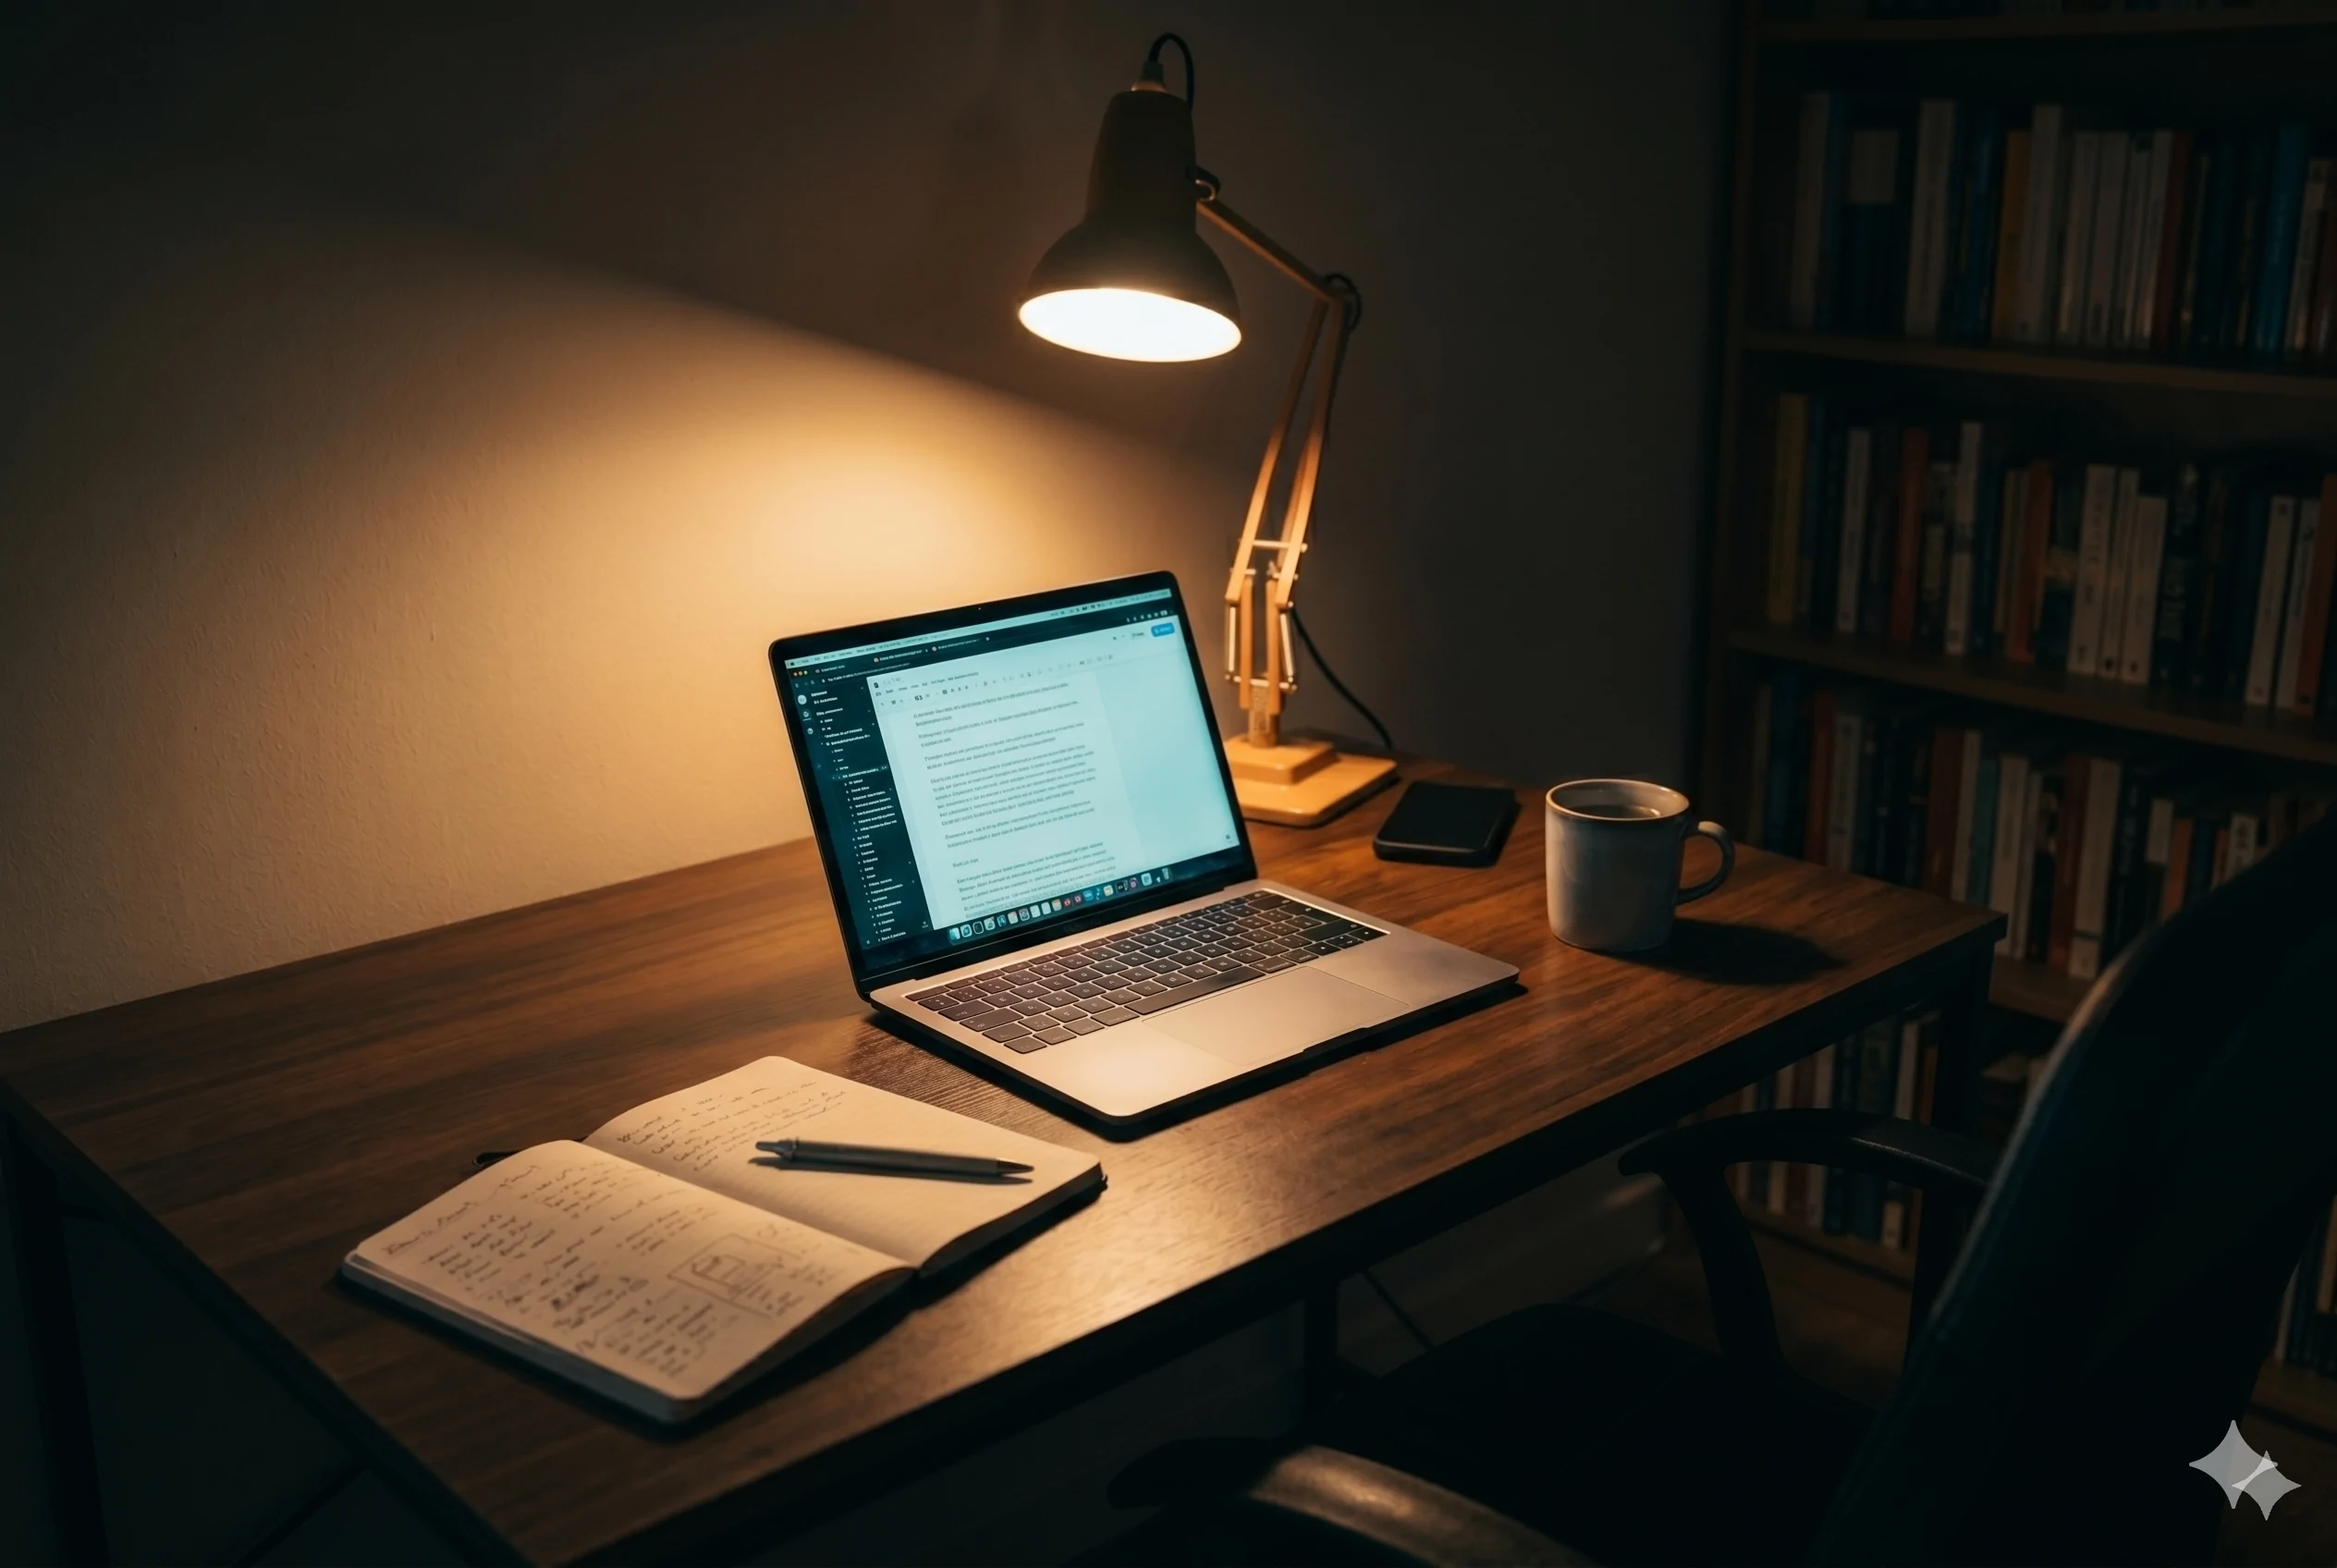
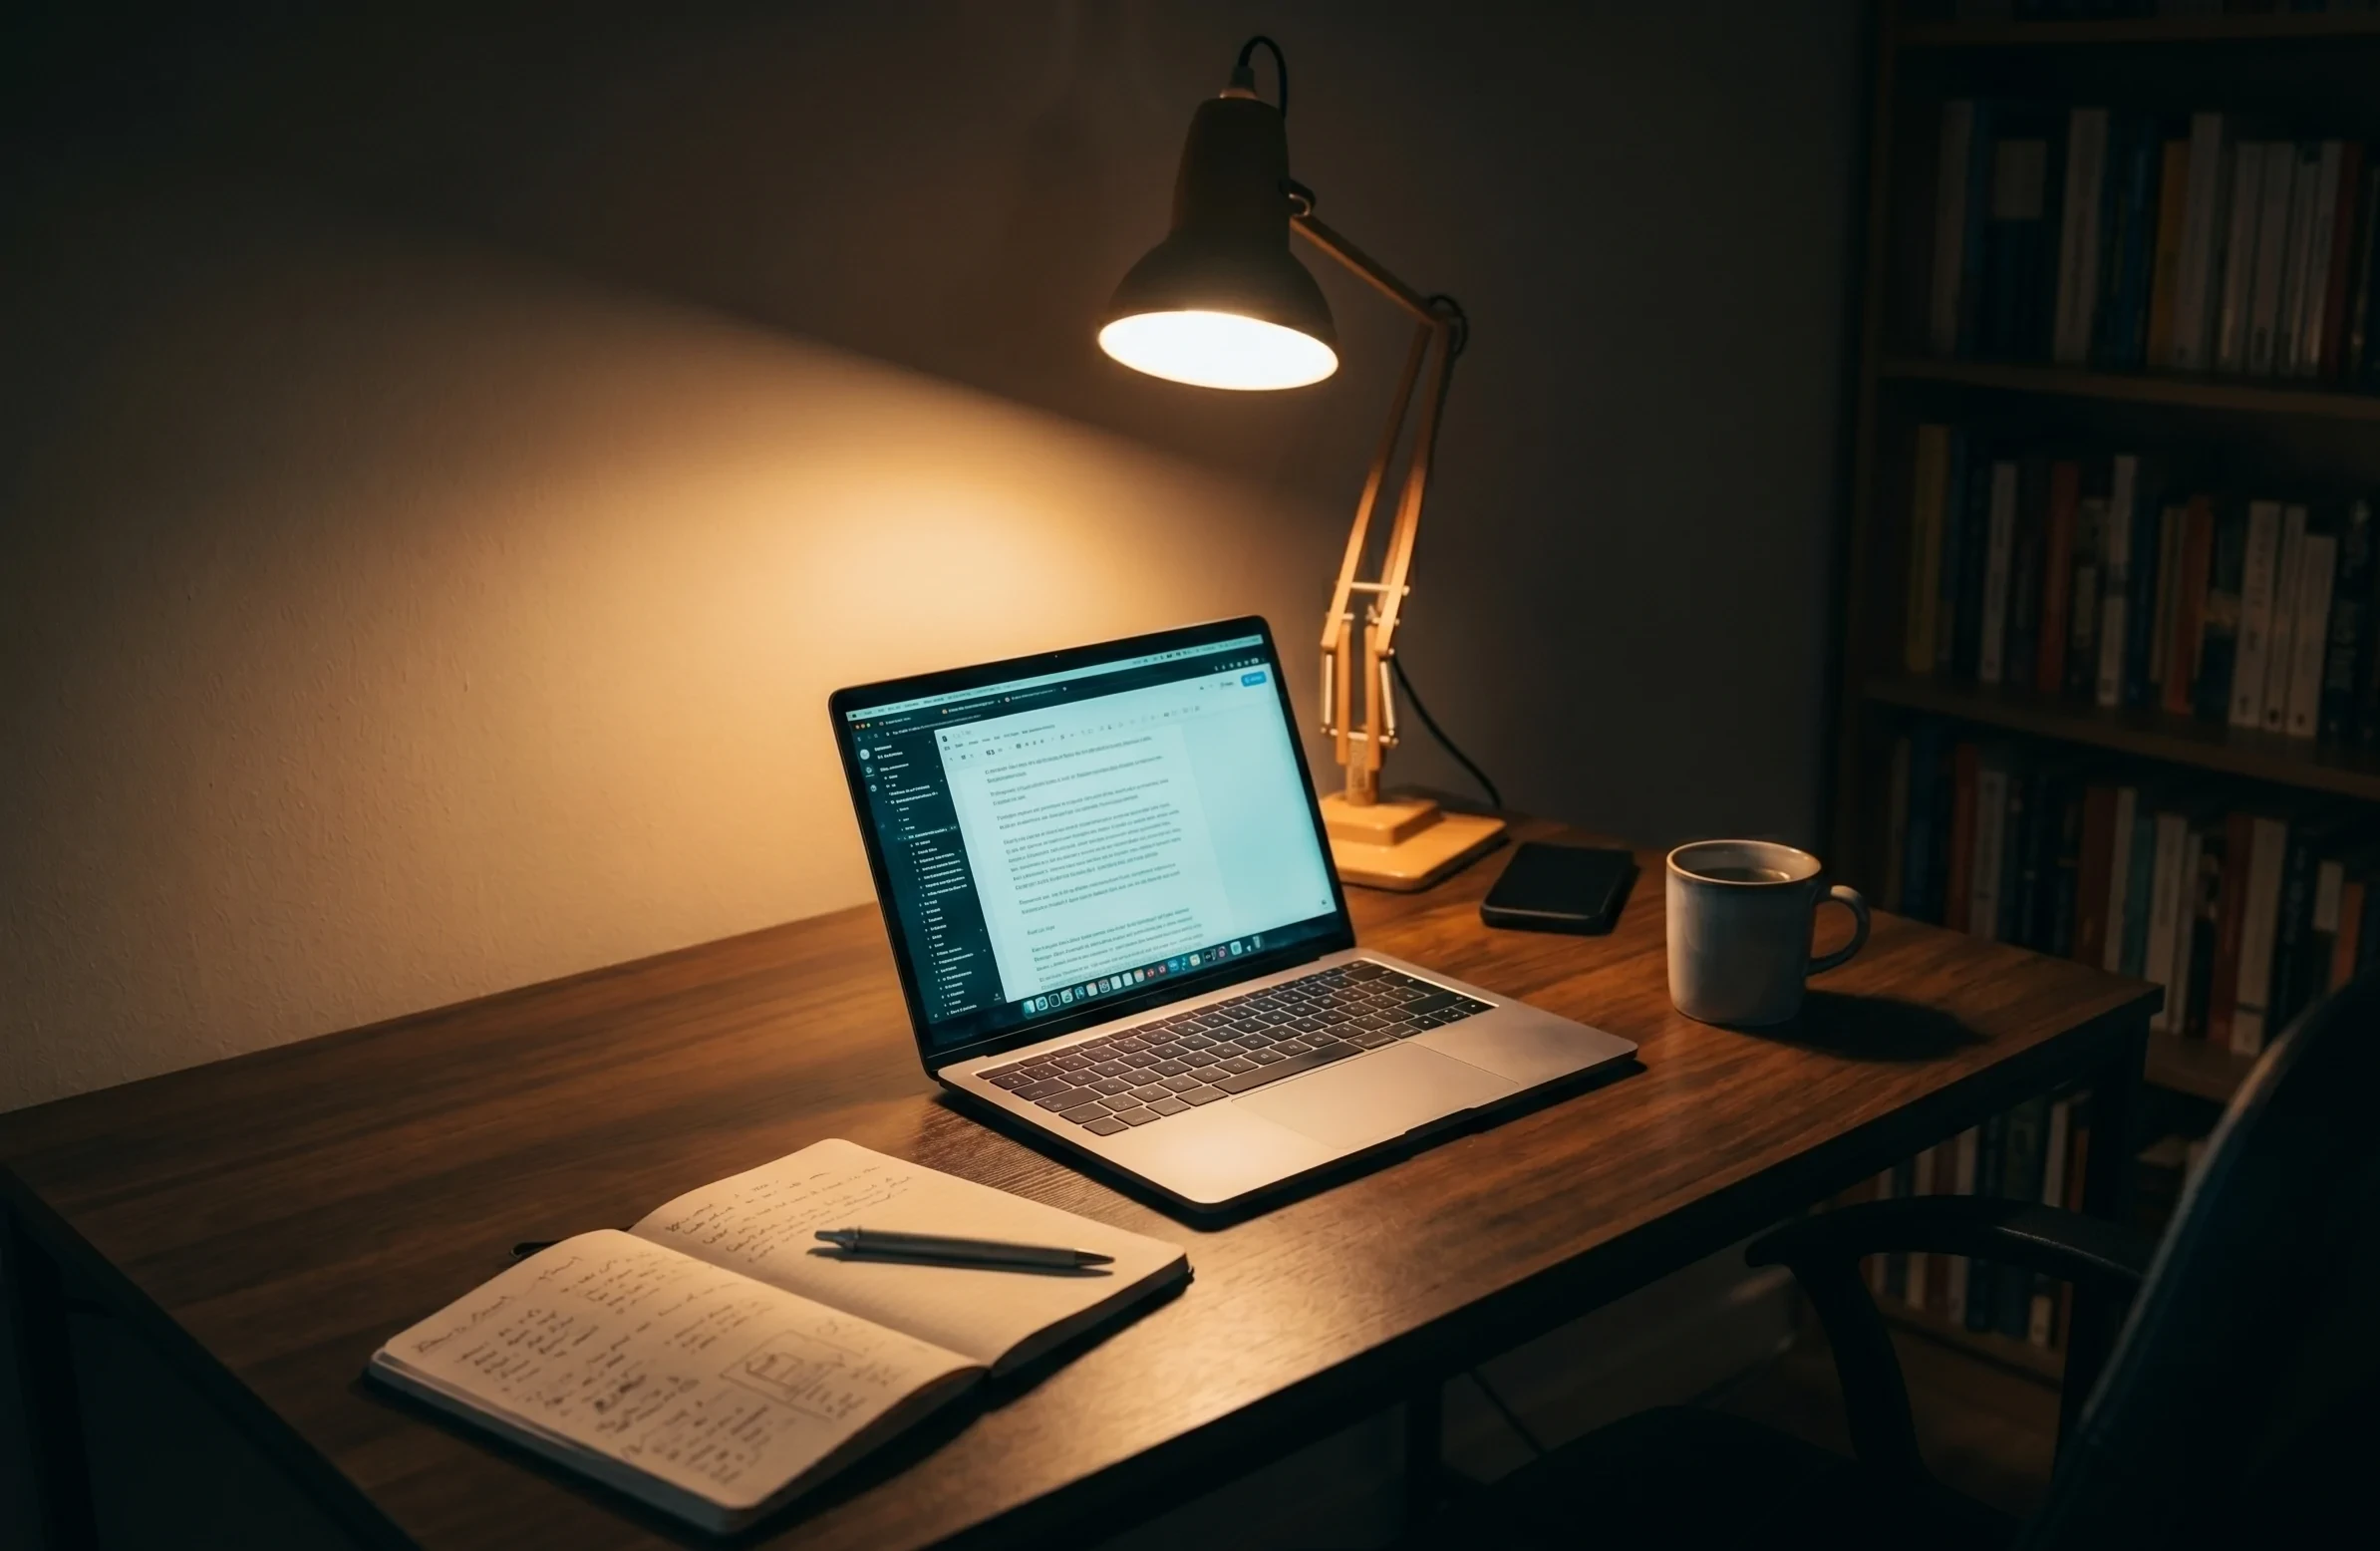
Apply audit v4 corrections — legibility, CTA voice, watermarks, testimonials, artifacts
C-leg · Body text legibility:
  - New token --color-body #d6cfbb (WCAG AAA 7.4:1 on ink) for paragraph text.
    Applied to section descriptions, body paragraphs, deliverable lists, FAQ
    answers, About manifiesto, newsletter intro.
  - New token --color-body-muted #a89e8c (WCAG AA 5.4:1) for
    captions / disclaimers / consent text.
  - --color-cream-soft bumped from #9a8d77 to #b8af9a so the
    eyebrows / metadata labels no longer feel ghosted.

C-cta · "Empezar una obra" => "Hablemos":
  - hero.cta updated globally. Services accordion CTA renamed
    "Hablemos sobre este servicio".

C-calendly · "Agendar llamada" replaced by mailto temporal:
  - Contact secondary CTA now opens mailto:[email redacted]
    with subject "Hablemos". Label "Escríbeme".
  - Footer "Calendly" entry removed.

C-watermark · Gemini watermark cropped from all 3 studio photos.
  ffmpeg crop=in_w-140:in_h-140:0:0 — removes 140px from right and bottom.
  Aspect ratios remain close (0.79 / 1.54 / 1.54).

C-test · Testimonials reinforced:
  - Quote: italic display, color #e8e0c8, clamp 1.25–1.75rem, lh 1.5.
  - Name: Switzer 500, clamp 1.1–1.35rem.
  - Role and company: body-muted, clamp 0.9–1.05rem.
  - Stars: 20px each, granate, +numeric rating.
  - Card: pad 28–40px, border-bottom granate hairline.

C-asterisco · Decorative glyphs removed:
  - Testimonials disclaimer ✷ => em-dash —.
  - Process 05 maintenance note ▲ => em-dash —.

diff --git a/src/components/sections/Testimonials.tsx b/src/components/sections/Testimonials.tsx
@@ -14,30 +14,31 @@ function StarRating({ value }: { value: 4.5 | 5 }) {
   const half = value % 1 !== 0;
   return (
     <span
-      className="inline-flex items-center gap-0.5"
+      className="inline-flex items-center gap-1"
       aria-label={`${value} estrellas sobre 5`}
     >
       {Array.from({ length: full }).map((_, i) => (
         <Star
           key={`f-${i}`}
-          className="size-3.5 fill-accent text-accent"
+          className="size-[20px] fill-accent text-accent"
           strokeWidth={1.5}
         />
       ))}
       {half ? (
         <StarHalf
-          className="size-3.5 fill-accent text-accent"
+          key="half"
+          className="size-[20px] fill-accent text-accent"
           strokeWidth={1.5}
         />
       ) : null}
       {Array.from({ length: 5 - full - (half ? 1 : 0) }).map((_, i) => (
         <Star
           key={`e-${i}`}
-          className="size-3.5 text-line-strong"
+          className="size-[20px] text-line-strong"
           strokeWidth={1.5}
         />
       ))}
-      <span className="font-mono-meta text-cream-soft ml-2">
+      <span className="font-mono-meta text-body ml-3 text-[0.75rem]">
         {value.toFixed(1)}
       </span>
     </span>
@@ -124,20 +125,25 @@ export function Testimonials() {
               animate={{ opacity: 1, y: 0 }}
               exit={{ opacity: 0, y: -24 }}
               transition={{ duration: 0.6, ease }}
-              className="testimonial-card relative grid grid-cols-1 md:grid-cols-12 gap-8 md:gap-12 items-start p-6 md:p-10"
+              className="testimonial-card relative grid grid-cols-1 md:grid-cols-12 gap-8 md:gap-12 items-start p-7 md:p-10"
+              style={{
+                borderBottom: "1px solid rgba(163, 30, 56, 0.22)",
+              }}
             >
-              <div className="md:col-span-3 flex flex-row md:flex-col items-start gap-4 md:gap-5">
-                <Avatar index={active} />
-                <div className="flex flex-col gap-1.5 md:gap-2">
-                  <span className="font-display text-cream text-[clamp(0.95rem,1.05vw,1.15rem)] leading-tight">
-                    {t.name}
-                  </span>
-                  <span className="font-mono-meta text-cream-soft text-[0.65rem]">
-                    {t.role}
-                  </span>
-                  <span className="font-mono-meta text-cream-soft text-[0.65rem]">
-                    {t.company}
-                  </span>
+              <div className="md:col-span-3 flex flex-row md:flex-col items-start gap-5">
+                <div className="flex items-center gap-4 md:flex-col md:items-start md:gap-3">
+                  <Avatar index={active} />
+                  <div className="flex flex-col gap-1.5">
+                    <span className="font-sans font-medium text-cream leading-tight text-[clamp(1.1rem,1.3vw,1.35rem)]">
+                      {t.name}
+                    </span>
+                    <span className="text-body-muted text-[clamp(0.9rem,0.95vw,1.05rem)] leading-tight">
+                      {t.role}
+                    </span>
+                    <span className="text-body-muted text-[clamp(0.9rem,0.95vw,1.05rem)] leading-tight">
+                      {t.company}
+                    </span>
+                  </div>
                 </div>
                 <span className="ml-auto md:ml-0 md:mt-2">
                   <StarRating value={t.rating} />
@@ -148,7 +154,7 @@ export function Testimonials() {
                   aria-hidden
                   className="block h-px w-12 bg-accent mb-6 opacity-70"
                 />
-                <p className="font-display text-cream leading-[1.18] max-w-3xl text-[clamp(1.1rem,1.8vw,1.6rem)]">
+                <p className="font-italic-display max-w-3xl leading-[1.5] text-[clamp(1.25rem,1.9vw,1.75rem)]" style={{ color: "#e8e0c8" }}>
                   {t.quote}
                 </p>
               </div>
@@ -189,9 +195,9 @@ export function Testimonials() {
           </button>
         </div>
 
-        <p className="mt-8 font-mono-meta text-cream-soft max-w-2xl">
-          ✷ Estos testimonios son provisionales mientras se cierran los primeros
-          clientes del estudio.
+        <p className="mt-8 font-mono-meta text-body-muted max-w-2xl">
+          — Estos testimonios son provisionales mientras se cierran los
+          primeros clientes del estudio.
         </p>
       </div>
     </section>

diff --git a/src/components/sections/Contact.tsx b/src/components/sections/Contact.tsx
@@ -57,10 +57,10 @@ export function Contact() {
             />
 
             <Reveal delay={0.35}>
-              <p className="mt-8 text-cream max-w-2xl text-base md:text-lg leading-relaxed">
-                Escribe directamente, agenda una llamada, o suscríbete a las
-                notas del estudio si todavía no estás listo. Respondo en menos
-                de 24 horas de lunes a viernes.
+              <p className="mt-8 text-body max-w-2xl text-base md:text-lg leading-relaxed">
+                Escríbeme directamente o suscríbete al newsletter del estudio
+                si todavía no estás listo. Respondo en menos de 24 horas de
+                lunes a viernes.
               </p>
             </Reveal>
 
@@ -77,14 +77,14 @@ export function Contact() {
               </Magnetic>
 
               <a
-                href={studio.social.calendly}
+                href={`mailto:${studio.email}?subject=Hablemos%20·%20Clickiclick.studio`}
                 className="btn-glass-secondary inline-flex items-center gap-3 h-16 px-7"
               >
                 <span className="relative flex size-2">
                   <span className="absolute inset-0 rounded-full bg-cool animate-ping opacity-75" />
                   <span className="relative rounded-full size-2 bg-cool" />
                 </span>
-                <span className="font-mono-meta">Agendar llamada</span>
+                <span className="font-mono-meta">Escríbeme</span>
                 <ArrowUpRight className="size-4" strokeWidth={1.5} />
               </a>
             </div>
@@ -120,7 +120,7 @@ export function Contact() {
               </span>{" "}
               del estudio.
             </h3>
-            <p className="mt-4 text-cream-soft text-base md:text-lg leading-relaxed">
+            <p className="mt-4 text-body text-base md:text-lg leading-relaxed">
               1 email al mes con notas de proceso: piezas que estoy
               construyendo, decisiones técnicas, recursos que vale la pena
               compartir. Sin marketing, cancelable en un click.
@@ -164,7 +164,7 @@ export function Contact() {
                 </button>
               </div>
 
-              <label className="flex items-start gap-3 cursor-pointer text-sm text-cream-soft">
+              <label className="flex items-start gap-3 cursor-pointer text-sm text-body-muted">
                 <input
                   type="checkbox"
                   checked={consent}

diff --git a/src/components/sections/Process.tsx b/src/components/sections/Process.tsx
@@ -31,7 +31,7 @@ export function Process() {
               size="md"
             />
             <Reveal delay={0.25}>
-              <p className="mt-6 text-cream-soft max-w-2xl text-base md:text-lg leading-relaxed">
+              <p className="mt-6 text-body max-w-2xl text-base md:text-lg leading-relaxed">
                 Cómo construyo cada obra, paso a paso. Cada fase tiene un
                 entregable claro, un cierre acordado, y una conversación en
                 directo contigo antes de pasar a la siguiente.
@@ -98,15 +98,15 @@ function ProcessPhase({
         <h3 className="font-display uppercase mb-4 text-[clamp(1.5rem,2.4vw,2.25rem)] leading-[1.05]">
           {phase.name}
         </h3>
-        <p className="font-italic-display text-cream-soft mb-5 max-w-2xl leading-snug text-[clamp(1.1rem,1.6vw,1.6rem)]">
+        <p className="font-italic-display text-body mb-5 max-w-2xl leading-snug text-[clamp(1.1rem,1.6vw,1.6rem)]">
           {phase.pull}
         </p>
-        <p className="text-cream/85 max-w-2xl leading-relaxed text-[clamp(1rem,1.15vw,1.18rem)]">
+        <p className="text-body max-w-2xl leading-relaxed text-[clamp(1rem,1.15vw,1.18rem)]">
           {phase.body}
         </p>
         {index === 4 ? (
           <p className="mt-7 font-mono-meta text-cool">
-            ▲ Pack mantenimiento mensual disponible
+            — Pack mantenimiento mensual disponible
           </p>
         ) : null}
       </div>

diff --git a/src/components/sections/Footer.tsx b/src/components/sections/Footer.tsx
@@ -30,7 +30,7 @@ export function Footer() {
         {/* Studio block */}
         <div className="col-span-2 md:col-span-4 max-w-sm">
           <Wordmark className="text-base" />
-          <p className="mt-5 text-cream-soft text-sm leading-relaxed">
+          <p className="mt-5 text-body-muted text-sm leading-relaxed">
             Estudio de diseño, desarrollo, IA y automatización. Trabajos a
             medida desde {studio.city}, para clientes en Europa y América.
           </p>
@@ -75,11 +75,6 @@ export function Footer() {
                 className="text-cream hover-line"
               >
                 {studio.phone}
-              </a>
-            </li>
-            <li>
-              <a href={studio.social.calendly} className="text-cream hover-line">
-                Calendly
               </a>
             </li>
           </ul>

diff --git a/src/app/globals.css b/src/app/globals.css
@@ -7,8 +7,12 @@
   --color-ink-soft: #15120f;
   --color-ink-deep: #050403;
   --color-cream: #f3ecde;
-  --color-cream-soft: #9a8d77;
+  --color-cream-soft: #b8af9a;
   --color-cream-mute: #5a5046;
+  /* Dedicated body-copy token (WCAG AAA on ink, 7.4:1). Use for paragraph text. */
+  --color-body: #d6cfbb;
+  /* Slightly dimmer for secondary captions / metadata (WCAG AA, 5.4:1). */
+  --color-body-muted: #a89e8c;
   --color-accent: #a31e38;
   --color-accent-deep: #6e1425;
   --color-cool: #8eb7b5;

diff --git a/src/components/sections/Services.tsx b/src/components/sections/Services.tsx
@@ -32,7 +32,7 @@ export function Services() {
               size="md"
             />
             <Reveal delay={0.25}>
-              <p className="mt-6 text-cream-soft max-w-2xl text-base md:text-lg leading-relaxed">
+              <p className="mt-6 text-body max-w-2xl text-base md:text-lg leading-relaxed">
                 Diseño y desarrollo de webs, sistemas de marca, productos de
                 inteligencia artificial, automatización y proyectos a medida.
                 Cada disciplina contratable por separado o en conjunto.
@@ -98,7 +98,7 @@ export function Services() {
                             {svc.deliverables.map((d, i) => (
                               <li
                                 key={i}
-                                className="flex items-baseline gap-3 text-cream/90"
+                                className="flex items-baseline gap-3 text-body"
                               >
                                 <span className="idx-num shrink-0">
                                   {String(i + 1).padStart(2, "0")}
@@ -111,7 +111,7 @@ export function Services() {
                             href="#contact"
                             className="btn-glass-secondary mt-8 inline-flex items-center gap-2 h-11 px-5 font-mono-meta"
                           >
-                            Empezar este servicio
+                            Hablemos sobre este servicio
                             <ArrowUpRight
                               className="size-4"
                               strokeWidth={1.5}

diff --git a/src/components/sections/About.tsx b/src/components/sections/About.tsx
@@ -37,7 +37,7 @@ export function About() {
               size="md"
             />
             <Reveal delay={0.25}>
-              <p className="mt-6 text-cream max-w-2xl text-base md:text-lg leading-relaxed">
+              <p className="mt-6 text-body max-w-2xl text-base md:text-lg leading-relaxed">
                 {aboutCopy.bodyShort}
               </p>
             </Reveal>
@@ -129,7 +129,7 @@ export function About() {
           <div className="md:col-span-9 max-w-3xl space-y-5">
             {aboutCopy.bodyLong.map((p, i) => (
               <Reveal key={i} delay={i * 0.1}>
-                <p className="text-cream/90 text-base md:text-lg leading-relaxed">
+                <p className="text-body text-base md:text-lg leading-relaxed">
                   {p}
                 </p>
               </Reveal>

diff --git a/src/components/sections/FAQ.tsx b/src/components/sections/FAQ.tsx
@@ -21,7 +21,7 @@ export function FAQ() {
               size="md"
             />
             <Reveal delay={0.25}>
-              <p className="mt-6 text-cream-soft max-w-2xl text-base md:text-lg leading-relaxed">
+              <p className="mt-6 text-body max-w-2xl text-base md:text-lg leading-relaxed">
                 Lo que pregunta la gente antes de firmar. Si no encuentras la
                 tuya, escribe directamente.
               </p>
@@ -60,7 +60,7 @@ export function FAQ() {
               </Accordion.Header>
               <Accordion.Content className="overflow-hidden data-[state=closed]:animate-fadeOut data-[state=open]:animate-fadeIn">
                 <div className="md:pl-16 pb-7 md:pb-10 pr-4 md:pr-16">
-                  <p className="text-cream/85 text-base md:text-lg leading-relaxed max-w-3xl">
+                  <p className="text-body text-base md:text-lg leading-relaxed max-w-3xl">
                     {item.a}
                   </p>
                 </div>

diff --git a/src/components/sections/SelectedWork.tsx b/src/components/sections/SelectedWork.tsx
@@ -25,7 +25,7 @@ export function SelectedWork() {
               size="md"
             />
             <Reveal delay={0.25}>
-              <p className="mt-6 text-cream-soft max-w-2xl text-base md:text-lg leading-relaxed">
+              <p className="mt-6 text-body max-w-2xl text-base md:text-lg leading-relaxed">
                 Cada proyecto trabaja su propia paleta, su propio sistema, su
                 propia voz. El marco general recupera el control entre obra y
                 obra — pero dentro de la cápsula, cada pieza vive con libertad.
@@ -165,7 +165,7 @@ function ProjectCapsule({
         <p className="font-italic-display text-cream-soft text-xl md:text-2xl mb-6">
           {project.subtitle}
         </p>
-        <p className="text-cream/85 leading-relaxed max-w-prose">
+        <p className="text-body leading-relaxed max-w-prose text-base md:text-lg">
           {project.description}
         </p>
 

diff --git a/src/components/sections/Manifesto.tsx b/src/components/sections/Manifesto.tsx
@@ -47,7 +47,7 @@ export function Manifesto() {
                 <Reveal
                   key={i}
                   delay={i * 0.1}
-                  className="text-cream/85 text-base md:text-lg leading-relaxed"
+                  className="text-body text-base md:text-lg leading-relaxed"
                 >
                   <p>{p}</p>
                 </Reveal>

diff --git a/src/lib/content.ts b/src/lib/content.ts
@@ -28,7 +28,7 @@ export const hero = {
   taglineSecondary: "Obras digitales hechas a medida",
   intro:
     "Estudio independiente que firma webs, marcas y sistemas de inteligencia artificial sobre encargo. Cada proyecto se trabaja al detalle, mano a mano, revisión a revisión.",
-  cta: "Empezar una obra",
+  cta: "Hablemos",
   ctaSecondary: "Ver trabajo",
   meta: [
     { label: "Estudio", value: "Independiente" },